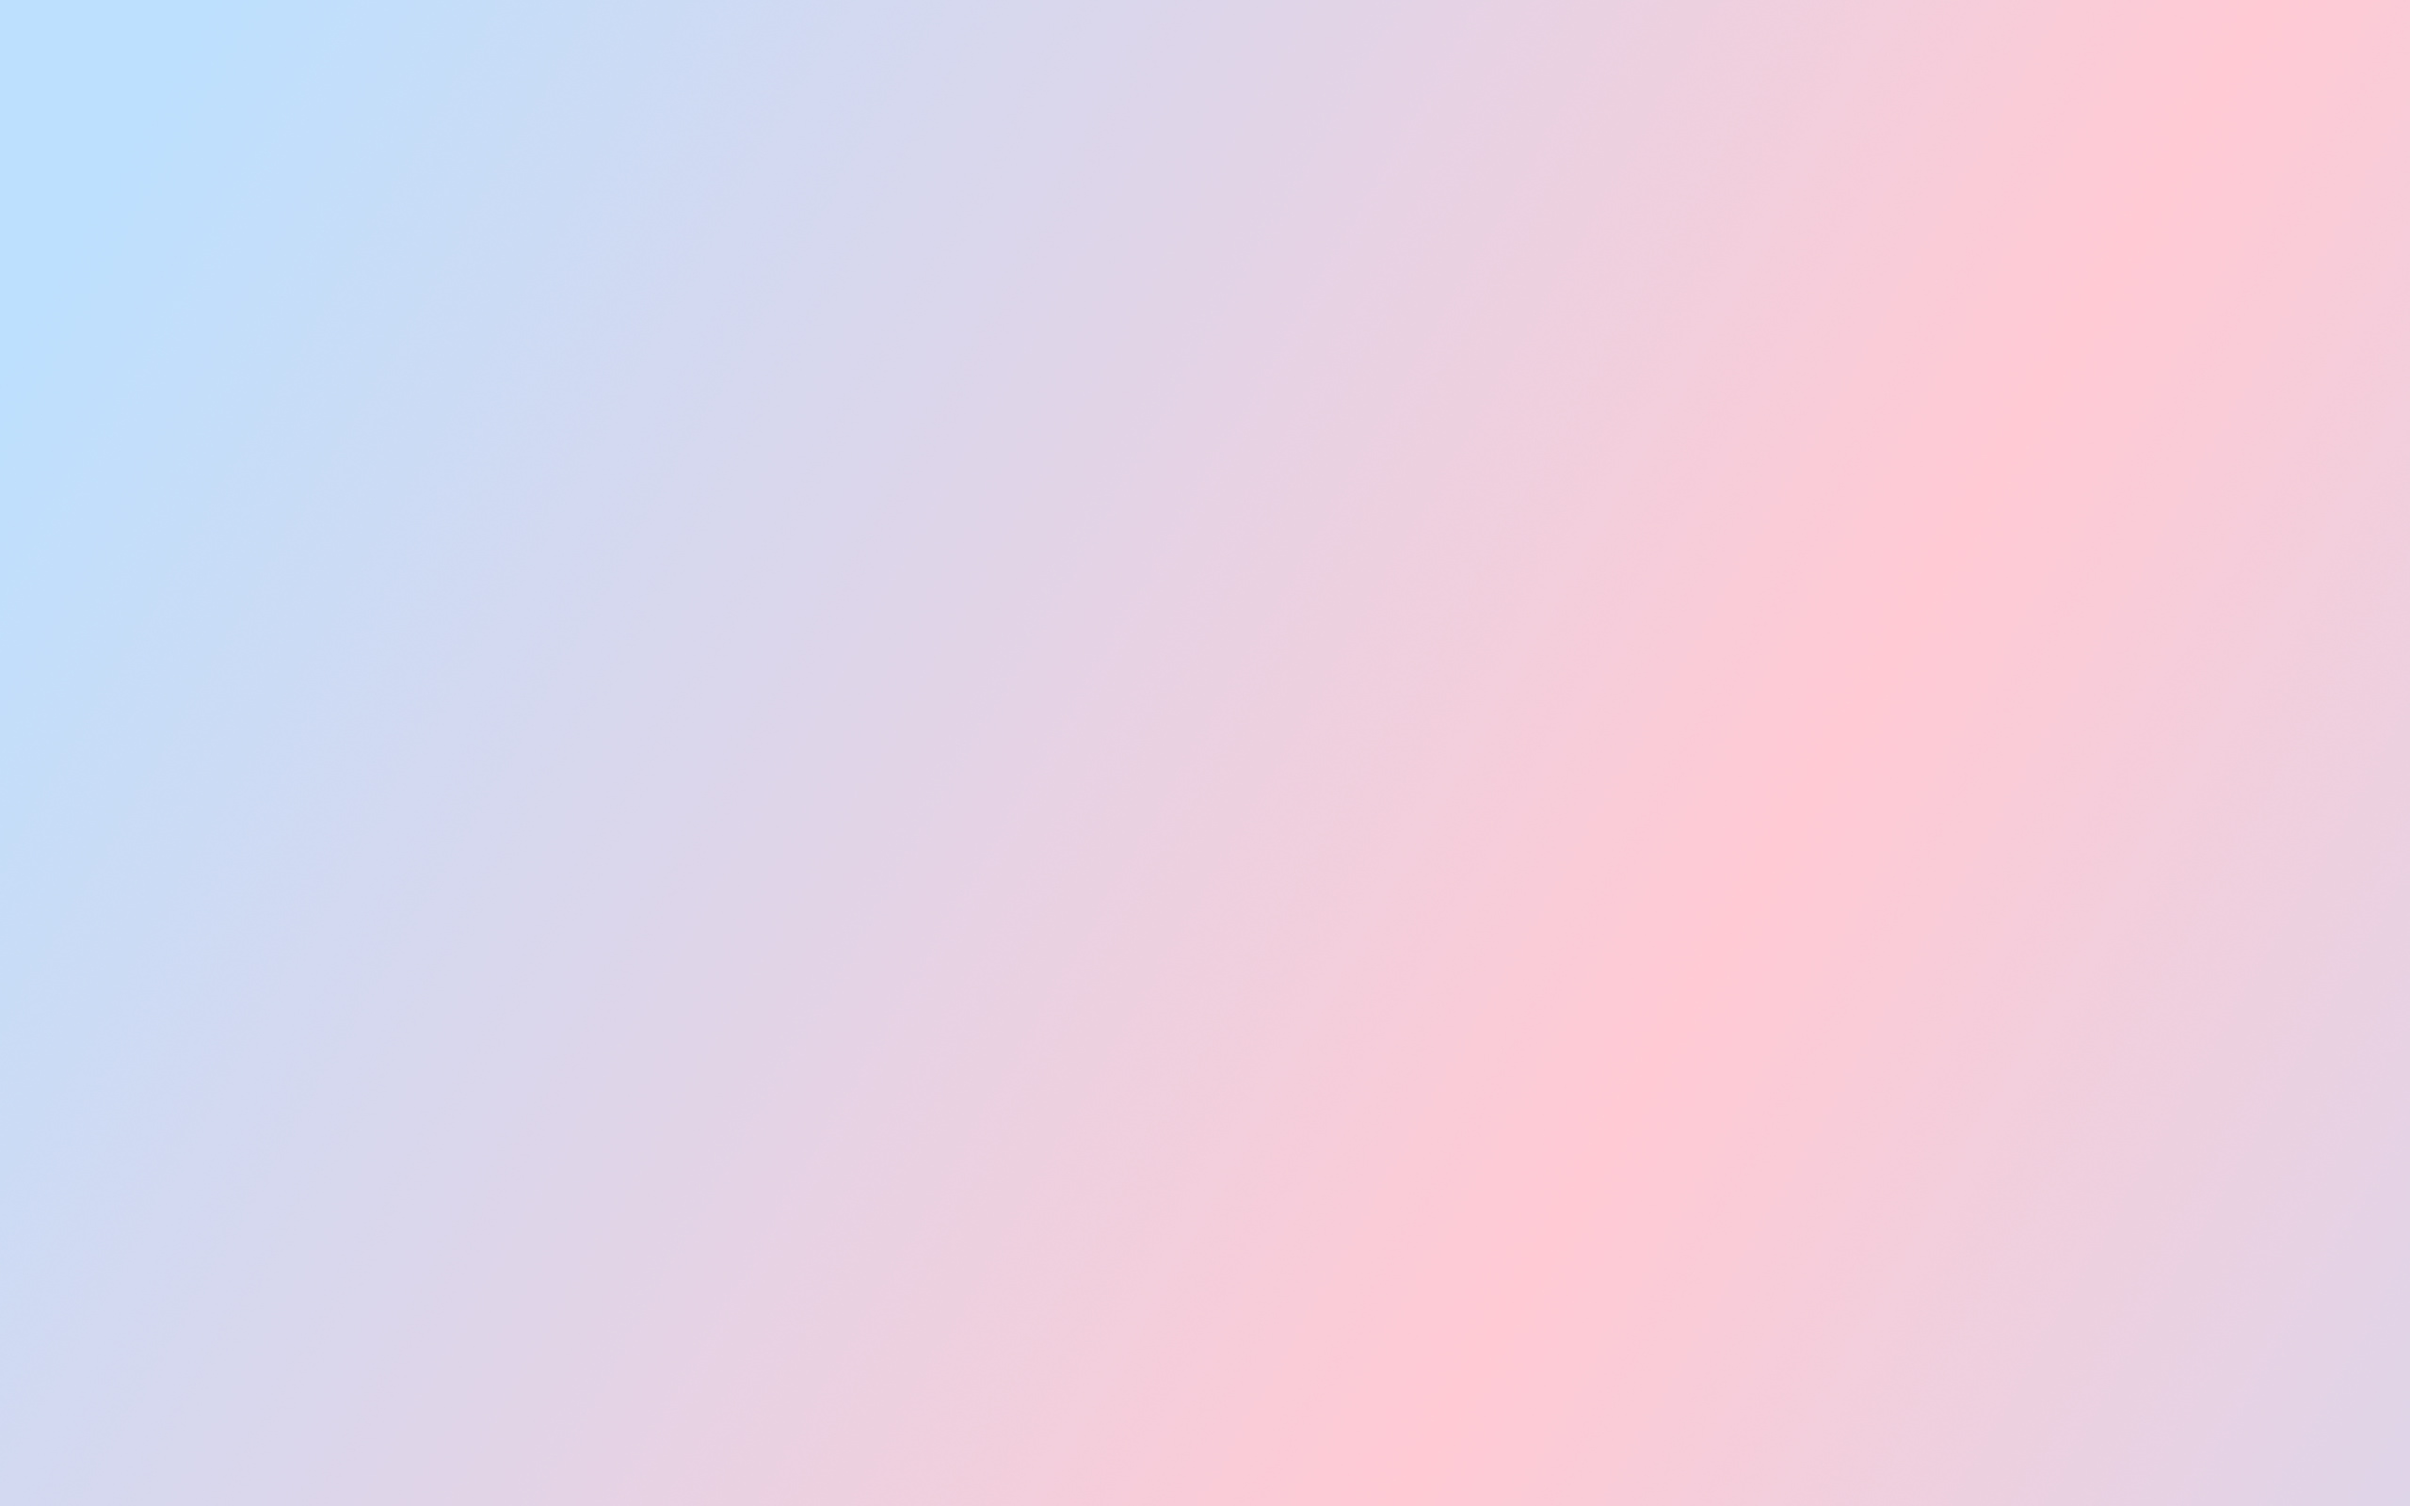
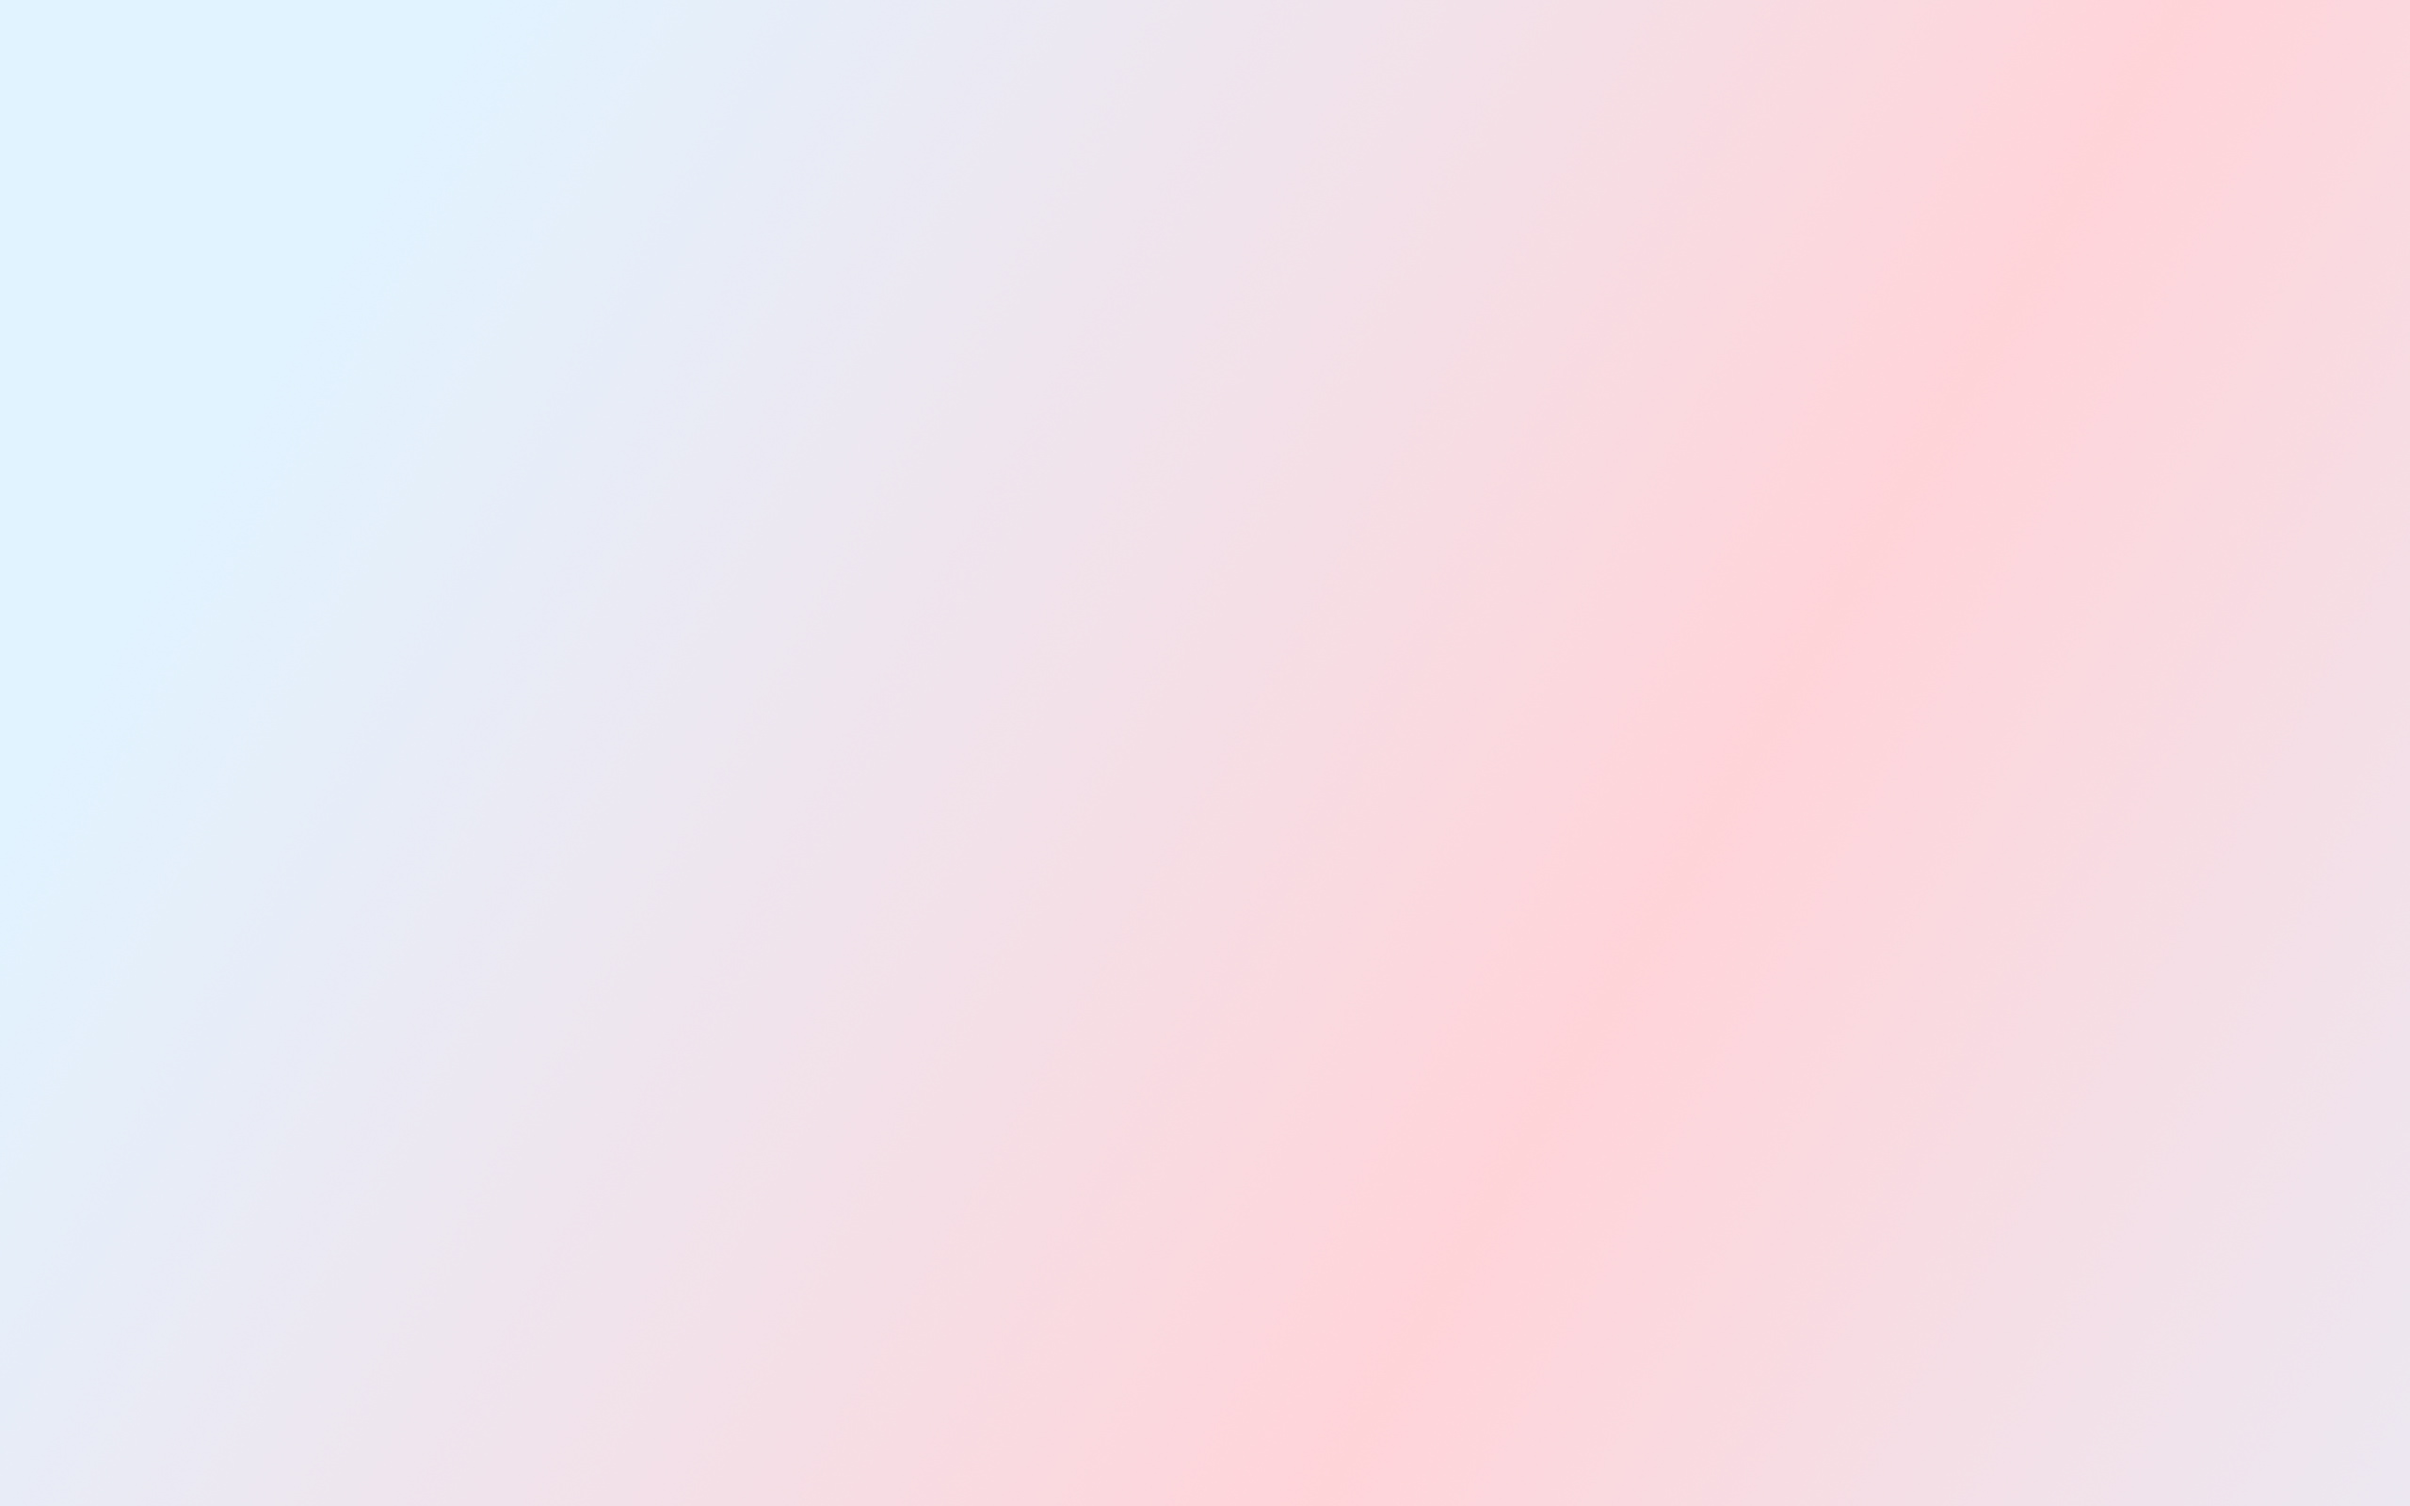
Backgrounds updated.

Changed region(s): [[0.0, 0.0, 0.3125, 0.8125]]

diff --git a/assets/css/style.css b/assets/css/style.css
@@ -129,6 +129,11 @@ p {
 
 #price-cards {
   background-color: #ffe5d9;
+  background-image: url(../img/backgroundCards.jpg);
+  background-attachment: fixed;
+  background-position: center;
+  background-repeat: no-repeat;
+  background-size: cover;
   border-top: solid 0.5px rgb(0, 0, 0, 0.1);
   border-bottom: solid 0.5px rgb(0, 0, 0, 0.1);
 }
